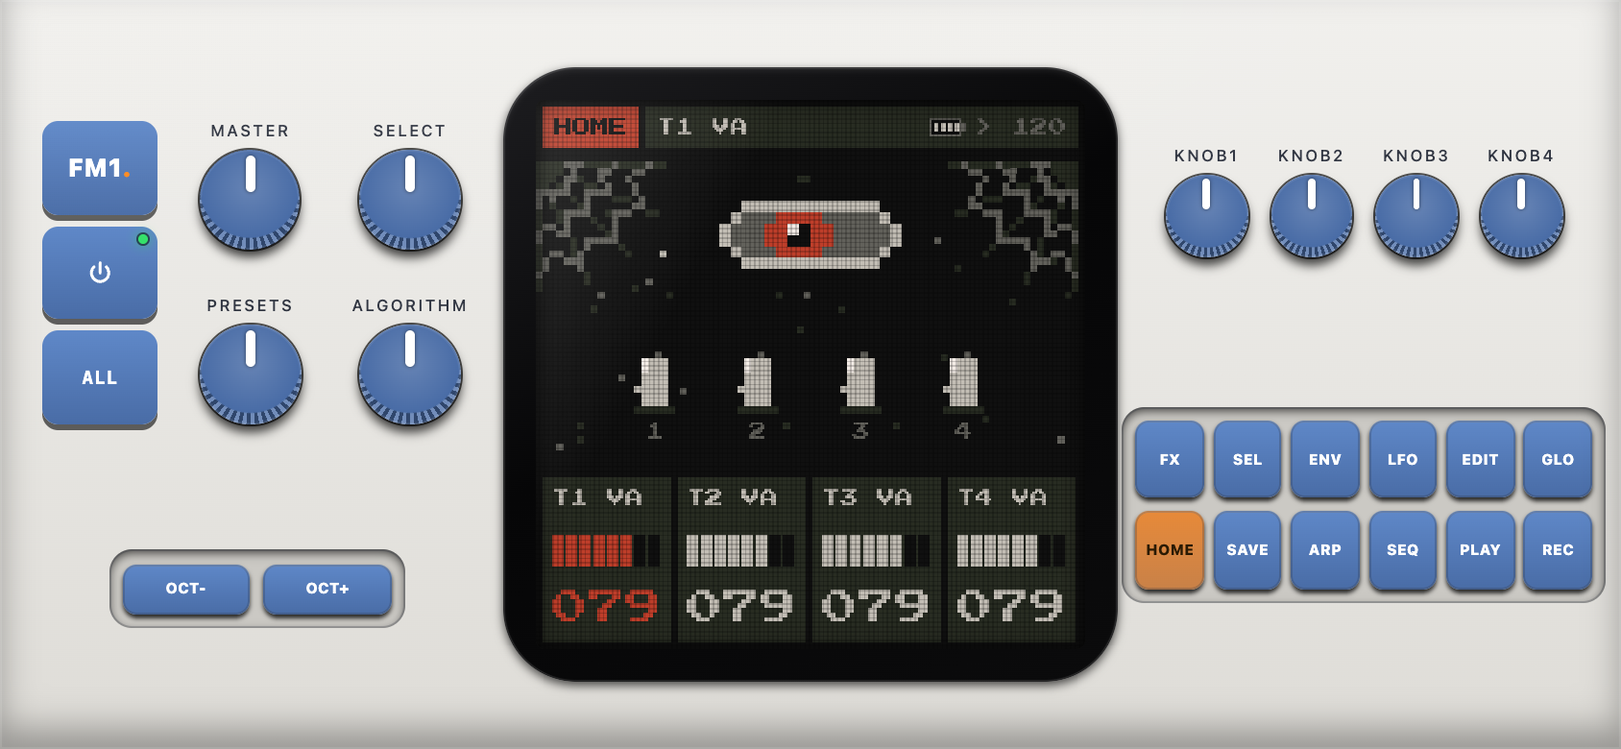
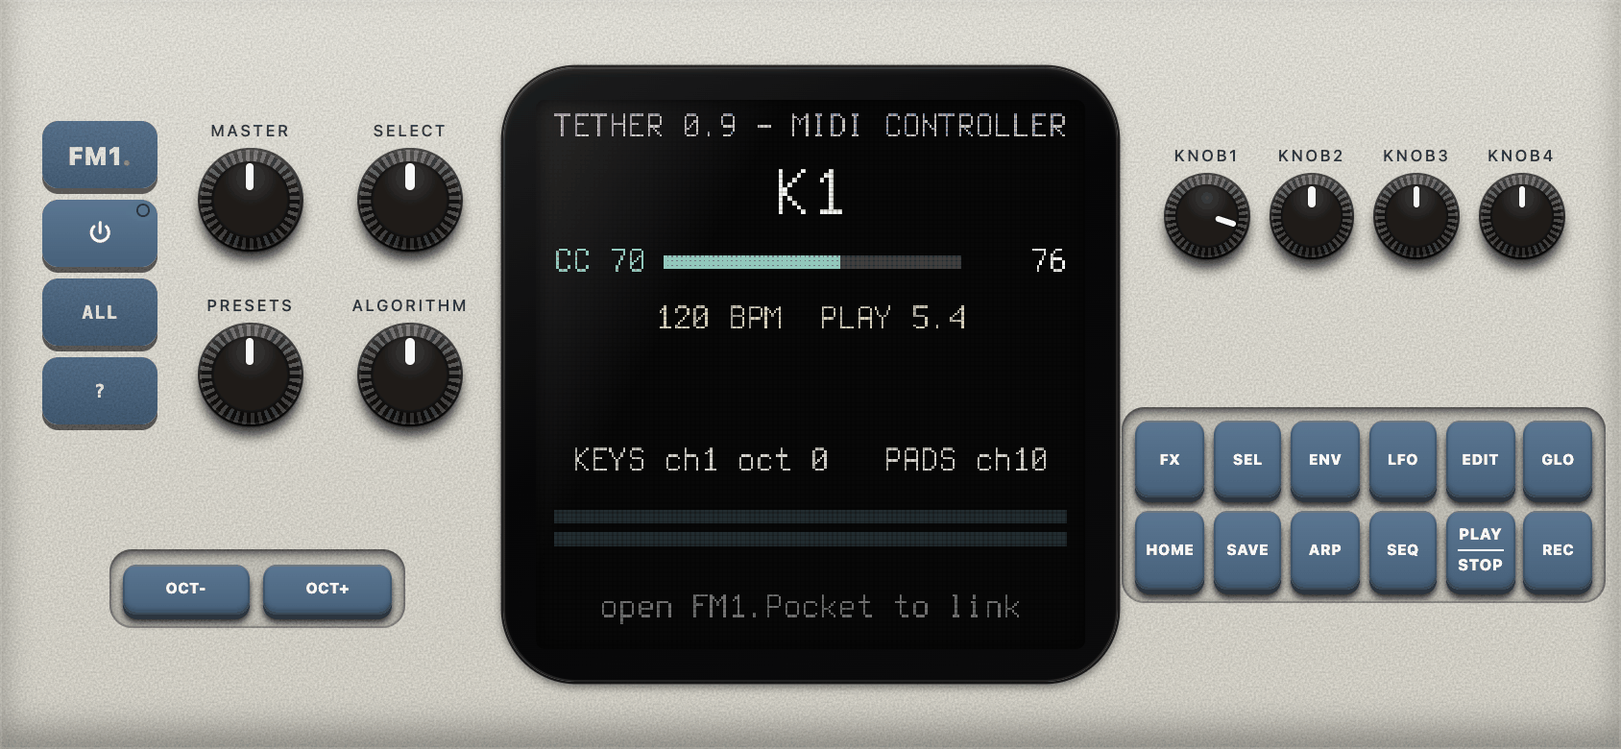
README: plainer, a section for Tether, new screenshots (Tether 0.9's screen, the menu with the language button); Tether manual (EN/ES)

diff --git a/pocket/README.md b/pocket/README.md
@@ -1,101 +1,120 @@
 # FM1.Pocket
 
-An M-VAVE FM-1 for the phone: a simpler front for [fm1-emu](https://github.com/joakimeriksson/fm1-emu) by
-**Joakim Eriksson** (MIT), made to be installed as an app and played offline.
+FM1.Pocket lets you play the M-VAVE FM-1 synthesizer on your phone or computer. It's free, needs no account, and
+keeps working without internet once you've installed it.
 
 **Open it: https://utopick.github.io/fm1-pocket/pocket/**
 
 | | |
 |---|---|
-| ![The whole FM-1, running GR!MM](docs/whole.png) | ![The upper part, in the white and blue skin](docs/upper.png) |
-| ![Only the keys, as a piano](docs/keys.png) | ![The LOOK tab: a card for each skin](docs/look.png) |
+| ![The whole FM-1, running Tether](docs/whole.png) | ![Only the top part, in the white and blue colours](docs/upper.png) |
+| ![The keys as a piano](docs/keys.png) | ![The menu](docs/menu.png) |
+| ![LOOK: pick the colours](docs/look.png) | ![OPTIONS, REAL FM-1: four steps to put a firmware on your FM-1](docs/real.png) |
 
-The firmware on the screen in these pictures is GR!MM, by its own author.
+## What it is
 
-This repository is a fork of fm1-emu. Everything outside this `pocket/` folder is Joakim's project, untouched.
-The emulated FM-1 inside the page (CPU, flash, screen, keys, knobs, audio) is his core and his audio worklet,
-unchanged. What this folder adds is one page around them: a phone-first front, a mapper for MIDI controllers and
-installation as an app.
+The FM-1 is a small synth, and a community of people write their own programs for it, called firmwares. FM1.Pocket
+runs a copy of the FM-1 in your browser, so you can try all of those firmwares without owning one. It is built on the
+FM-1 emulator by Joakim Eriksson ([fm1-emu](https://github.com/joakimeriksson/fm1-emu)).
 
-## What it does
+## What you can do
 
-- **Sideways on a phone, always.** One button goes round three views: the whole FM-1, the keys (with the
-  knobs, screen and buttons shrunk above them), only the upper part (knobs, screen, buttons), each full screen. A phone held upright shows the same view turned.
-  A narrow window on a computer gets an upright layout (screen, knobs, buttons, keys in two rows).
-- **Keys** as the FM-1's own or as a piano. **Skins**: the nine colours the FM-1 is sold in (black follows a photo of the
-  real one), then four of ours. **Screen filter**: LCD, CRT or clean.
-- **Feel**: buttons and keys sink when pressed, a lit one glows onto the panel, a knob's rim and mark turn under a light that stays still, and on Android a press and each click of an encoder give a short buzz (iOS has no vibration for web pages).
-- **Firmwares** from fm1-emu's list (the page reads `firmwares.json` from Joakim's site when online, so new
-  ones appear by themselves; the Firmware Hub's `catalog.json` adds the ones fm1-emu's list lacks; the list built into the page is only the offline fallback, refreshed by `python3 pocket/update-firmwares.py`, which merges both and rebuilds). The
-  FIRMWARE tab is a vertical list of banners, the ones you have first. A banner has one button, DOWNLOAD until the
-  package is kept on the device (then it runs with no connection) and a lit USE after; MANUAL (the page looks through the firmware's repository for a manual or a guide and falls back to the README, saying which it shows); and ERASE, which
-  asks whether to erase only what the firmware saved or the downloaded firmware too. A banner also carries the Firmware Hub's chip tag (NEWER CHIP ✓ saves on the newer flash chip 0xB36014, ANY CHIP does not check it, FIRST FM-1s ONLY keeps saves in RAM on a newer unit), and SEARCH has a SAVES ON NEWER FM-1s filter. A banner shows the date the
-  author's host published the package, read when it is downloaded (the list itself has no dates). On the right,
-  big: SEARCH, OPEN FILE (your own `.fwsc`), LOAD BANK (a DX7 bank of 32 voices, `.syx`, into the running firmware)
-  and CLEAR (the downloads); the storage bar is in the bottom bar.
-- **Saves.** What a firmware writes to its flash is kept per exact firmware version.
-- **Slow devices.** When the device cannot keep up and the sound breaks up, the app offers to restart the firmware
-  at a lower clock (80 or 60 MHz).
-- **MIDI**: keys play the FM-1 through its MIDI IN. Knobs and pads work the FM-1's own knobs and buttons, with a
-  starting assignment for known controllers (Akai MPK mini, Launchkey) and a drawing of the controller to assign
-  and learn each control (the Pocket apps' device panel). **LIGHTS**: on a controller that takes lights (Launchkey MK4 37, so far), each pad shows the LED of the FM-1 button it works (amber, PLAY green, REC red; dim and bright), sent as notes to the controller's own output.
-- A manual in English and Spanish in its own tab (this app, and how the FM-1 works with its stock firmware, after M-VAVE's user manual), the licences, computer keys, multi-touch. In the FM-1 part of the manual a small FM-1 sits beside the text: the controls the paragraph is about light up as you read (a ring for the others it mentions), the names in the text are little buttons and knobs you can tap to see where they are, and tapping a control on the small FM-1 jumps to its entry (`pocket/tests/manual.py`).
-- **Installable (PWA)**: its own window, full screen, and it works offline. The menu wears the chosen skin.
+Hold your phone sideways and play it like the real thing: tap the keys and buttons, and drag a knob up or down to
+turn it. You can use several fingers at once. One button switches between the whole FM-1, bigger keys, or just the
+top part with the knobs and screen.
 
-## A real FM-1 on USB (OPTIONS, REAL FM-1) — written, not yet tried on a unit
+In LOOK you can swap the FM-1's keys for piano keys, pick any of the colours the FM-1 is sold in (or a few of ours),
+and choose how the screen looks.
 
-Chrome or Edge (computer, or Android with a cable; no iOS), Web MIDI with SysEx. The protocol is in `vendor/real-fm1.js`, written from the
-specification of [m-bootloader](https://github.com/jvitkauskas/m-bootloader) (MIT, by jvitkauskas), whose v2.4 packages
-(`vendor/mboot/`, checked by SHA-256 before use, licence in `LICENSE-m-bootloader`) are what the page sends.
+FIRMWARE lists the community's firmwares. Once you download one, it works offline, and each one comes with its
+author's manual. You can also open a firmware file you already have, or load a bank of DX7 sounds.
 
-1. **CONNECT** finds the unit's ports (`FM-1 MIDI 1` while its firmware runs, `FM-1 Update` in m-bootloader's MIDI mode).
-2. **SYNC**: what you play goes to the real unit too; its notes, bend, clock and start/stop come to the emulator. (The emulator has no MIDI out.)
-3. **BACKUP** (step 1): sends m-bootloader's RAM helper through the firmware's own update route, then reads the whole flash (512-byte reads, each checked, then the chip's CRC-32) and saves a `.bin`. Only reads are ever sent to the helper. The copy is also wrapped as a one-file package, kept as the first entry of the firmware list (MY FM-1) and started in the emulator at once: if its screen draws, the copy is a good one. DELETE of the downloads leaves it.
-4. **PROTECTOR** (step 2, only after a backup): sends the bootloader package. It writes the boot area.
-5. **INSTALL FIRMWARE** (step 3, only in the protector's MIDI mode): serves the chosen firmware's package; the unit checks it before it erases. **No protector, no custom firmware**: every BACKUP is checked for m-bootloader's identity in the boot area (`AC79BLID` at payload offset 0x40 of the container at 0xA0), and step 3 stays locked until a backup of the same unit shows it. PROTECTOR is not sent on the newer flash chip (JEDEC B36014): use M-Flasher there, then BACKUP again. Every backup is also kept in this browser (IndexedDB, `unit:<id>`: the first one of a unit stays as its original, the last replaces the one before), so the checks are not repeated and files do not pile up: the file is saved for the first backup of a unit and on demand (SAVE BACKUP). The install starts with the "start install" soft message (`F0 22 24 35 7F F7`; the protector's MIDI mode waits for it), serves the package as the unit asks (it reads it twice and ends with a finish read) and, before sending anything, asks the questions the unit asks (a flash image of whole sectors, the block at 0x4000 readable with this unit's chip key, the image's CRC16), so a refusal is explained on the page and not only on the unit's screen. Each firmware card gets an INSTALL button only while the unit is in the protector's MIDI mode and a backup of it (this session's or the kept one) shows the same protector version. A flash map (the directory records and which 4 KiB sectors hold data) is drawn after each backup and written in the INSPECT · COPY report. The protector check has only been tried on synthetic flashes. The map is a 16 x 16 square coloured as in [M-Flasher](https://github.com/jvitkauskas/m-flasher) (MIT; its region colours and the stock FM-1 layout: boot 0x0000, firmware 0x4000, settings 0x93000, pairings 0xE9000, sounds 0xEA000, MAC 0xFF000). It uses that stock layout, not the unit's own file table, so a custom firmware that keeps its data elsewhere is coloured by where the stock one would.
+If you have a MIDI keyboard, plug it in and its keys will play the FM-1, while its knobs and pads work the FM-1's
+knobs and buttons. In OPTIONS, DEVICE shows a drawing of your keyboard, and MAP helps you set it up step by step.
 
-If a unit stops starting, it can usually be brought back through the chip's own boot mode (the computer sees a USB disk `WL82 UBOOT1.00`) with [MvaveFM1Unbricker](https://github.com/Quixotic7/MvaveFM1Unbricker); the WARNINGS dialog says how and links it. Writes ask for a slide to confirm. Restoring a backup is not done here (use M-Flasher). Tests: `node --test pocket/tests/real-fm1.test.js` (a simulated unit and the real packages) and `python pocket/tests/real.py` (the page against a fake unit).
+MANUAL explains both this app and the FM-1 itself. The button at the top left of the menu switches the whole app
+between English and Spanish. You can also install FM1.Pocket as an app from OPTIONS, so it gets its own icon and
+opens full screen.
 
-## Tether: the real FM-1 as the emulator's panel (the panel works on a unit; its sound out is not yet tried)
+If your phone can't keep up and the sound stutters, the app will offer to run the firmware a little slower.
 
-`pocket/firmware/` (GPL-3.0, built on [Dinghy](https://github.com/zvenson/dinghy)) is a firmware that sends every key, button, encoder
-and the MASTER knob as MIDI and draws what the page sends to its screen and LEDs; the protocol is `firmware/PROTOCOL.md`, the page side
-`vendor/tether.js`. `firmware/autobuild.sh` builds it from nothing (fetches JieLi's toolchain and three SDK files, needs Docker on a Mac) and puts `vendor/tether.fwsc` in place; `build.py` inlines it, so the page carries it. To try it: with the unit in the protector's MIDI mode (and a backup with the protector in it), CONNECT and press **PLAY WITH THE REAL FM-1**, which then says INSTALL TETHER ON THIS FM-1 and runs the same checks as any install; switch the unit on normally, CONNECT, and press the button again: if the
-unit answers HELLO the button turns into TETHER · THE REAL PANEL · ON, the unit plays the emulator, and the emulator's screen and lights
-appear on the unit. A Tether build whose HELLO says it is a USB speaker (protocol 2) is also offered the emulator's sound: the page
-finds the unit's audio output (usually named "Felucca"; if the browser gives no names it asks for the microphone a moment, which is
-only how browsers unlock output names, else it lists the outputs) and plays into it with `AudioContext.setSinkId` (Chrome and Edge 110 or
-newer), so the sound comes out of the FM-1, at its MASTER. When Tether stops the page offers to put the sound back on this device.
-Tests: `node --test pocket/tests/tether.test.js`, and `pocket/tests/real.py` (a fake Tether unit, the sound routing with a fake
-`setSinkId`).
+## Using a real FM-1
 
-## Roadmap
+If you own an FM-1, you can connect it with a USB cable and put a firmware on it from OPTIONS, under REAL FM-1. This
+needs Chrome or Edge on a computer, or an Android phone; it doesn't work on iPhone or iPad. There are four steps:
 
-- MIDI sync with the real unit's clock into the emulated firmware's tempo (the emulator has no clock input yet) and the emulator's own notes out.
-- Restore a backup from the page.
+1. **CONNECT** the FM-1.
+2. **BACKUP** saves a copy of everything on your FM-1 to a file, without changing anything. Keep that file somewhere safe.
+3. **PROTECTOR** installs [m-bootloader](https://github.com/jvitkauskas/m-bootloader) by jvitkauskas, a safety net that
+   means a firmware that goes wrong can always be replaced. It asks you before it writes anything.
+4. **INSTALL** puts the firmware you choose on the FM-1. It stays locked until you've done steps 2 and 3.
 
-## Build and test
+If your FM-1 ever stops starting up, WARNINGS (under MORE) explains how to bring it back.
 
-```sh
-python3 pocket/build.py                                   # writes pocket/index.html from pocket/src/app.html and pocket/vendor/
-python pocket/tests/smoke.py path/to/firmware.fwsc        # needs selenium and Chrome
-```
+## Tether, our own firmware
 
-Edit `pocket/src/app.html`. `pocket/vendor/midi-device.js` is the MIDI device panel
-shared with the Pocket apps (copied from TUNE.Pocket's `<script id="midi-device">`, keep it identical).
-`pocket/vendor/` also holds fm1-emu's built core (`fm1_web.wasm`), `worklet.js` and
-`firmwares.json`, copied from its published page at commit 3e3fb27. To update them, build `web/` as the main
-README says and copy the three files.
+Tether is a firmware we wrote for the real FM-1. It's free and open source, and it does two jobs.
+
+The first is to connect your real FM-1 to FM1.Pocket. With the app open, the FM-1's keys, knobs and buttons play the
+app, and the app sends its screen and lights back to the FM-1. That means you can try any firmware from the list on
+real keys and a real screen without installing it on the unit, and the sound can come out of the FM-1's own output
+too.
+
+The second job starts when the app isn't open. Then the FM-1 becomes an ordinary USB MIDI keyboard that you can use
+with any music app or program, on a computer or an Android phone. This is what it sends:
+
+| On the FM-1 | What it sends |
+|---|---|
+| The 27 keys | Notes on channel 1. OCT- and OCT+ move them up or down an octave. |
+| The other 12 buttons (FX to REC) | Pads: notes 36 to 47 on channel 10. |
+| MASTER | CC 7 on channel 1. |
+| SELECT, ALGORITHM, PRESETS and KNOB1 to KNOB4 | CC 74, 75 and 76, then 70 to 73, on channel 1. |
+
+While you play, the FM-1's screen shows the control you just touched and its value, the tempo and bar when a program
+sends MIDI clock, the chord you're holding, and a level meter for the sound coming in over USB. A program can also
+light the FM-1's keys and pads the way it would light a Launchkey's pads, by sending notes back to it: a high velocity
+gives a bright light and a low one a dim light.
+
+The other Pocket apps know the FM-1 when it runs Tether. Their MIDI drawing shows its layout, its knobs and pads get
+useful jobs straight away (in TRACK.Pocket the MASTER knob is the master volume, for example), and, if you allow it,
+the FM-1's screen shows what each knob and pad does in that app.
+
+The [Tether manual](firmware/MANUAL.md), in English and Spanish, explains all of this step by step.
+
+To install Tether, open OPTIONS, then REAL FM-1, and press **PLAY WITH THE REAL FM-1**. It takes the same safe steps
+as any other firmware, with a backup and the protector first. If you want M-VAVE's original firmware back, download
+FM-1.fwsc from M-VAVE, open it with OPEN FIRMWARE FILE and install it the same way.
+
+Tether works on Mac and Android, both as a controller and as a sound output. The screen and lights described above
+are new in version 0.9. It is built on [Dinghy](https://github.com/zvenson/dinghy) by zvenson, which comes from
+[Felucca](https://github.com/hugelton/Felucca) by Leo Kuroshita and [SLOOP](https://github.com/isod89/sloop-fm1) by
+isod89, and like them it is GPL-3.0. Its code and the full list of who made what are in [`firmware/`](firmware/README.md),
+and the messages it understands are described in [`firmware/PROTOCOL.md`](firmware/PROTOCOL.md).
 
 ## Credits and licences
 
-- fm1-emu: © Joakim Eriksson, MIT (`LICENSE` at the root, a copy in `pocket/vendor/LICENSE-fm1-emu`).
-- The page in this folder: MIT, by utopick.
-- Each firmware belongs to its author and keeps its own licence. None is in this repository. They come from
-  [the FM-1 Firmware Hub](https://thefirmwarehub.com/).
-- The skin colours named after the FM-1 are approximations by eye. Black follows a product photo, grey follows
-  fm1-emu's drawing.
-- Menu icons (FIRMWARE, LOOK, OPTIONS, MANUAL, ABOUT) from [Open Game Icons](https://open-game-icons.net/), CC BY 3.0
-  (https://creativecommons.org/licenses/by/3.0/): Circuitry and Book cover by Lorc, Palette, Settings knobs and Info by
-  Delapouite. Recoloured to follow the theme.
+- The emulator: fm1-emu, © Joakim Eriksson, MIT (`LICENSE` at the root, a copy in `vendor/LICENSE-fm1-emu`).
+  Everything outside this `pocket/` folder is his project, unchanged.
+- This app: MIT, by utopick.
+- m-bootloader and M-Flasher: jvitkauskas, MIT (`vendor/mboot/LICENSE-m-bootloader`).
+- Tether (`firmware/`): GPL-3.0, built on [Dinghy](https://github.com/zvenson/dinghy).
+- Every other firmware belongs to its author, under its own licence. None is in this repository.
+  They come from [the FM-1 Firmware Hub](https://thefirmwarehub.com/).
+- The FM-1 colours are matched by eye.
+- Menu icons: [Open Game Icons](https://open-game-icons.net/), CC BY 3.0, by Lorc and Delapouite.
 - Not affiliated with M-VAVE.
+
+## For developers
+
+```sh
+python3 pocket/build.py                              # builds pocket/index.html from src/app.html and vendor/
+python pocket/tests/smoke.py path/to/firmware.fwsc   # needs selenium and Chrome
+python pocket/tests/real.py                          # the REAL FM-1 pane, against a fake unit
+python pocket/tests/manual.py                        # the manual, and the app in Spanish
+node --test pocket/tests/real-fm1.test.js pocket/tests/tether.test.js
+```
+
+- Edit `src/app.html`, never `index.html`.
+- `vendor/midi-device.js` is shared with the other Pocket apps: keep it identical.
+- `python3 pocket/update-firmwares.py` refreshes the built-in firmware list (used when offline).
+- `firmware/autobuild.sh` builds Tether into `vendor/tether.fwsc` (needs Docker on a Mac). Its protocol is in `firmware/PROTOCOL.md`.

diff --git a/pocket/firmware/MANUAL.md b/pocket/firmware/MANUAL.md
@@ -1,0 +1,161 @@
+# Tether manual
+
+[English](#english) · [Español](#español)
+
+## English
+
+### Installing it
+
+Open FM1.Pocket, go to OPTIONS and then REAL FM-1, and press **PLAY WITH THE REAL FM-1**. The app walks you through
+the same steps as any other firmware: it connects to the FM-1, makes a backup of it, adds the protector, and then
+installs Tether. Keep the backup file, because it is your way back to exactly what the FM-1 had before.
+
+When Tether starts, the FM-1's screen says TETHER at the top.
+
+### The two ways it works
+
+Tether watches for FM1.Pocket. When the app is open and talking to the FM-1, the FM-1 is the app's panel. When the app
+is closed, or has been quiet for three seconds, the FM-1 becomes a normal USB MIDI keyboard. It switches between the
+two on its own, so you never have to change a setting, and anything you're holding is let go when it switches.
+
+### With FM1.Pocket
+
+The FM-1's keys, knobs and buttons play the emulated FM-1 in the app, and whatever firmware the app is running shows
+on the real screen and lights. Two buttons appear in the app's left column. The screen button chooses whether the app's
+screen is also sent to the FM-1 (turning it off makes the link lighter). The sound button chooses whether the app's
+sound comes out of the FM-1's own headphone or line output, or out of your phone or computer.
+
+### As a MIDI keyboard
+
+Plug the FM-1 into a computer or an Android phone and choose it as a MIDI input in your music app. It needs no driver.
+
+The 27 keys send notes on channel 1, starting from F3. OCT- and OCT+ move the keys down or up by an octave, up to three
+each way, and they don't send anything themselves.
+
+The other 12 buttons are pads that send notes 36 to 47 on channel 10, from FX (36) to REC (47). They light up while
+you hold them.
+
+The knobs send CC messages on channel 1. KNOB1 to KNOB4 send CC 70 to 73, SELECT sends 74, ALGORITHM 75 and PRESETS 76.
+Each click of a knob moves its value by 2, from 0 to 127, and every knob starts in the middle at 64. MASTER sends CC 7.
+
+### What the screen shows
+
+From top to bottom, the screen shows:
+
+1. The name of the control you touched last, what it sends, and its value as a bar. A Pocket app can replace the name
+   with what that control does in the app, such as SWING.
+2. The tempo and the bar and beat, when a program sends MIDI clock, along with whether it is playing or stopped.
+3. The chord you're holding, such as Cmaj7. When you aren't holding keys, it names the chord or scale a program has lit
+   on the keys.
+4. The octave and the MIDI channels.
+5. A level meter for the sound the computer is playing through the FM-1.
+
+### Lights
+
+A program can light the FM-1's keys and pads by sending notes back to it, the same way you would light a Launchkey's
+pads. A note on channel 10 from 36 to 47 lights a pad, and a note on channel 1 lights the key that plays that note.
+A velocity from 64 to 127 gives a bright light, 1 to 63 a dim one, and 0 or a note-off turns it off. If a program
+lights one key bright and the rest of a scale dim, the screen takes the bright key as the scale's root.
+
+### The FM-1 as a speaker
+
+Tether also makes the FM-1 a USB sound output. On a computer, choose it as the output in your sound settings (it may
+appear with the name Felucca) and the computer's sound plays through the FM-1's headphone or line output. MASTER sets
+the volume.
+
+On a Mac, if the FM-1 doesn't appear as a sound output, unplug it and plug it in again with the browser closed, since a
+browser can grab the FM-1 the moment it is plugged in.
+
+### Using it with the other Pocket apps
+
+TRACK.Pocket, TUNE.Pocket, SING.Pocket and PLAY.Pocket recognise the FM-1 when it runs Tether. Their DEVICE drawing
+shows its layout, and its knobs and pads are given jobs straight away (in TRACK.Pocket, for example, MASTER is the
+master volume). The first time, an app asks whether it may show its function names on the FM-1's screen. If you say
+yes, the browser asks for permission to send it special MIDI messages, and that permission is only used for the names.
+
+### Going back
+
+To put M-VAVE's original firmware back, download FM-1.fwsc from M-VAVE, open it in FM1.Pocket with OPEN FIRMWARE FILE,
+and install it the same way. You can also use the FM-1 Firmware Hub's installer. If the FM-1 ever stops starting up,
+hold OCT- while switching it on to reach the USB rescue mode, and see WARNINGS in the app for the rest of the steps.
+
+## Español
+
+### Instalarlo
+
+Abre FM1.Pocket, entra en OPCIONES y luego en FM-1 REAL, y pulsa **TOCAR CON EL FM-1 REAL**. La app te lleva por los
+mismos pasos que con cualquier otro firmware: se conecta al FM-1, hace una copia de seguridad, añade el protector y
+después instala Tether. Guarda la copia, porque es tu manera de volver exactamente a lo que tenía el FM-1.
+
+Cuando Tether arranca, la pantalla del FM-1 pone TETHER arriba.
+
+### Las dos maneras de funcionar
+
+Tether está pendiente de FM1.Pocket. Cuando la app está abierta y hablando con el FM-1, el FM-1 es el panel de la app.
+Cuando la app está cerrada, o lleva tres segundos callada, el FM-1 pasa a ser un teclado MIDI USB normal. Cambia de
+una a otra solo, así que no hay que tocar ningún ajuste, y lo que tengas pulsado se suelta al cambiar.
+
+### Con FM1.Pocket
+
+Las teclas, los potes y los botones del FM-1 tocan el FM-1 emulado de la app, y el firmware que esté usando la app se
+ve en la pantalla y las luces reales. En la columna izquierda de la app aparecen dos botones. El de la pantalla elige
+si la pantalla de la app también se envía al FM-1 (si lo apagas, la conexión es más ligera). El del sonido elige si el
+sonido de la app sale por la salida de auriculares o de línea del propio FM-1, o por tu móvil u ordenador.
+
+### Como teclado MIDI
+
+Conecta el FM-1 a un ordenador o a un móvil Android y elígelo como entrada MIDI en tu app de música. No necesita
+ningún driver.
+
+Las 27 teclas envían notas por el canal 1, empezando en F3. OCT- y OCT+ bajan o suben las teclas una octava, hasta
+tres en cada sentido, y no envían nada por sí mismas.
+
+Los otros 12 botones son pads que envían las notas 36 a 47 por el canal 10, de FX (36) a REC (47). Se encienden
+mientras los mantienes pulsados.
+
+Los potes envían mensajes CC por el canal 1. KNOB1 a KNOB4 envían los CC 70 a 73, SELECT envía el 74, ALGORITHM el 75
+y PRESETS el 76. Cada clic de un pote mueve su valor de 2 en 2, de 0 a 127, y todos empiezan en el centro, en 64.
+MASTER envía el CC 7.
+
+### Qué muestra la pantalla
+
+De arriba abajo, la pantalla muestra:
+
+1. El nombre del último control que has tocado, lo que envía y su valor como una barra. Una app Pocket puede cambiar
+   ese nombre por lo que hace ese control en la app, por ejemplo SWING.
+2. El tempo, el compás y el tiempo, cuando un programa envía reloj MIDI, y si está sonando o parado.
+3. El acorde que estás pulsando, por ejemplo Cmaj7. Cuando no pulsas ninguna tecla, nombra el acorde o la escala que
+   un programa ha encendido en las teclas.
+4. La octava y los canales MIDI.
+5. Un medidor de nivel del sonido que el ordenador reproduce por el FM-1.
+
+### Luces
+
+Un programa puede encender las teclas y los pads del FM-1 enviándole notas, igual que se encienden los pads de un
+Launchkey. Una nota por el canal 10 entre 36 y 47 enciende un pad, y una nota por el canal 1 enciende la tecla que
+toca esa nota. Una velocidad de 64 a 127 da una luz fuerte, de 1 a 63 una luz suave, y 0 o un note-off la apaga. Si un
+programa enciende una tecla fuerte y el resto de una escala suave, la pantalla toma la tecla fuerte como la tónica.
+
+### El FM-1 como altavoz
+
+Tether también convierte el FM-1 en una salida de sonido USB. En un ordenador, elígelo como salida en los ajustes de
+sonido (puede aparecer con el nombre Felucca) y el sonido del ordenador sale por la salida de auriculares o de línea
+del FM-1. MASTER controla el volumen.
+
+En un Mac, si el FM-1 no aparece como salida de sonido, desconéctalo y vuelve a conectarlo con el navegador cerrado,
+porque un navegador puede quedarse con el FM-1 en cuanto lo conectas.
+
+### Con las otras apps Pocket
+
+TRACK.Pocket, TUNE.Pocket, SING.Pocket y PLAY.Pocket reconocen el FM-1 cuando usa Tether. Su dibujo de DISPOSITIVO
+muestra su distribución, y sus potes y pads tienen funciones desde el principio (en TRACK.Pocket, por ejemplo, MASTER
+es el volumen general). La primera vez, la app pregunta si puede mostrar los nombres de sus funciones en la pantalla
+del FM-1. Si dices que sí, el navegador pide permiso para enviarle mensajes MIDI especiales, y ese permiso solo se usa
+para los nombres.
+
+### Volver atrás
+
+Para volver a poner el firmware original de M-VAVE, descarga FM-1.fwsc de M-VAVE, ábrelo en FM1.Pocket con ABRIR
+FIRMWARE e instálalo de la misma manera. También puedes usar el instalador del FM-1 Firmware Hub. Si el FM-1 deja de
+arrancar alguna vez, mantén OCT- pulsado al encenderlo para entrar en el modo de rescate USB, y mira AVISOS en la app
+para el resto de los pasos.

diff --git a/README.md b/README.md
@@ -1,12 +1,12 @@
-> **This is a fork.** The project is [joakimeriksson/fm1-emu](https://github.com/joakimeriksson/fm1-emu) by Joakim Eriksson.
-> The fork adds one folder, [`pocket/`](pocket/README.md): **FM1.Pocket**, his emulator with a phone-first front
-> (sideways, full screen, the FM-1's colours as skins), a mapper for MIDI controllers with a drawing of each one,
-> and installation as an app that works offline.
+> **This is a fork** of [joakimeriksson/fm1-emu](https://github.com/joakimeriksson/fm1-emu) by Joakim Eriksson.
+> It adds one folder, [`pocket/`](pocket/README.md), with **FM1.Pocket**: his FM-1 emulator made for phones. You can
+> play it sideways, give it the FM-1's colours, plug in a MIDI keyboard, install it as an app that works offline, and
+> put firmwares on a real FM-1.
 > **Open it: https://utopick.github.io/fm1-pocket/pocket/**
 >
-> [![FM1.Pocket running GR!MM](pocket/docs/whole.png)](https://utopick.github.io/fm1-pocket/pocket/)
+> [![FM1.Pocket running Tether](pocket/docs/whole.png)](https://utopick.github.io/fm1-pocket/pocket/)
 >
-> The emulator core is used unchanged. Everything else below is his README, unchanged.
+> His emulator is used unchanged, and everything below is his own README.
 
 # FM-1 emulator
 
